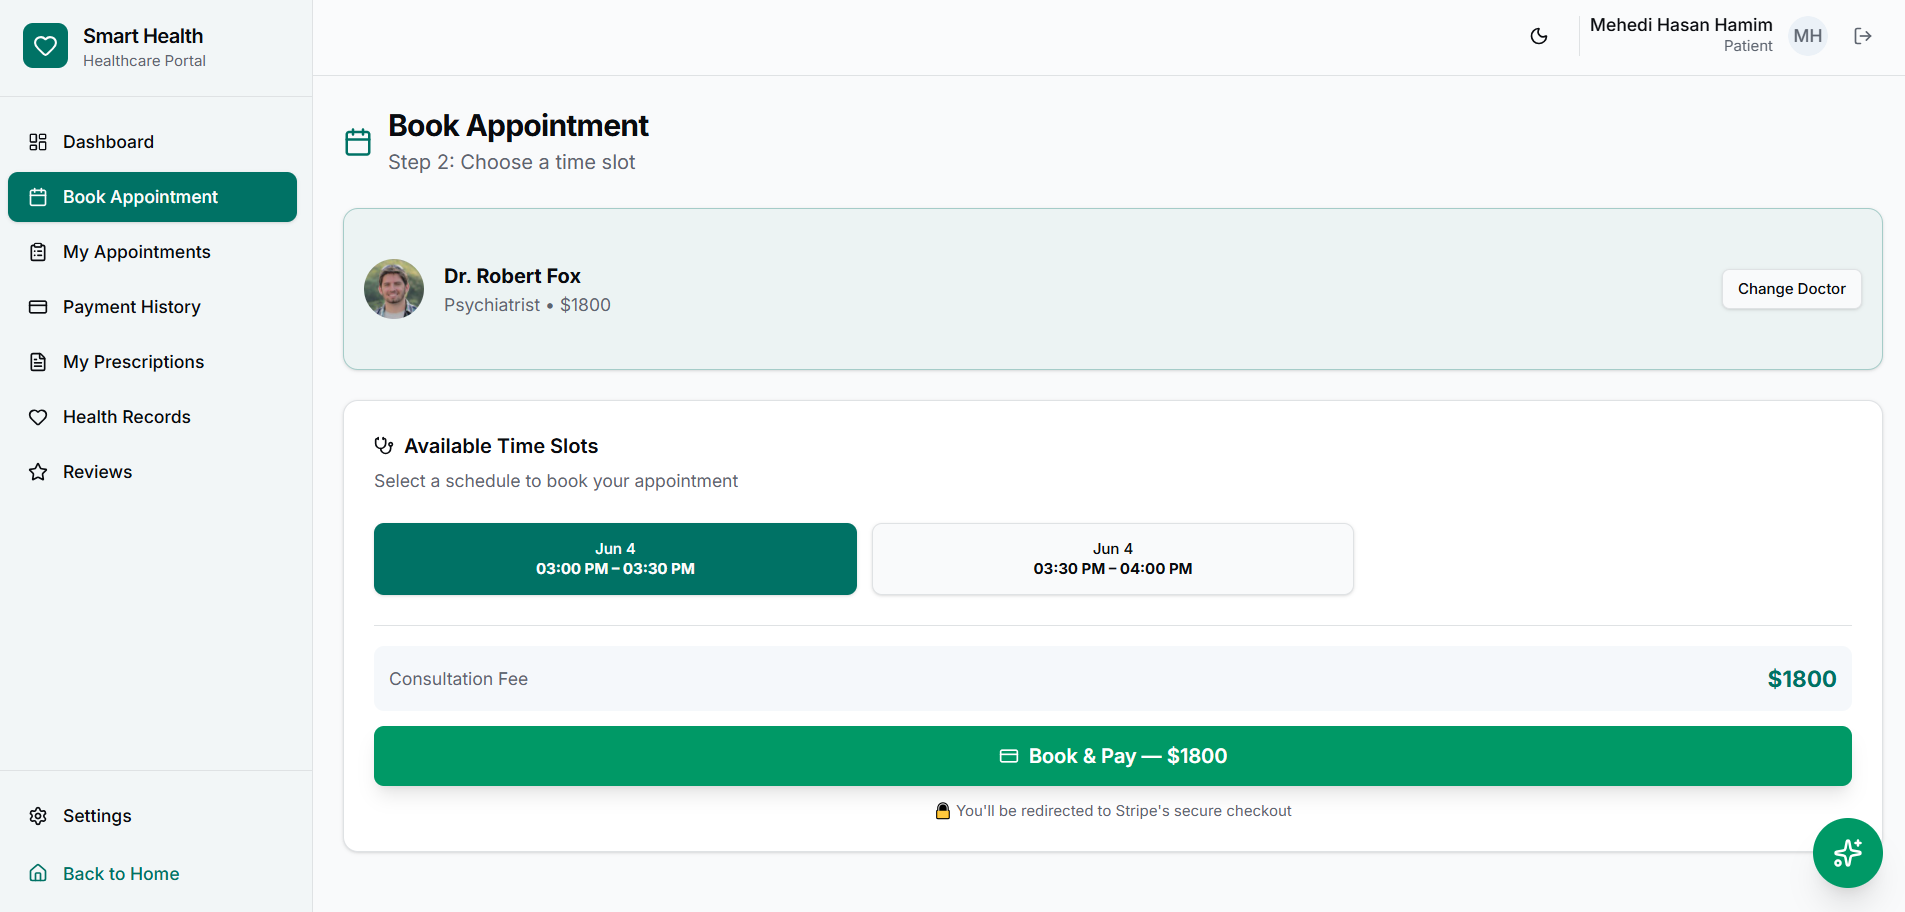
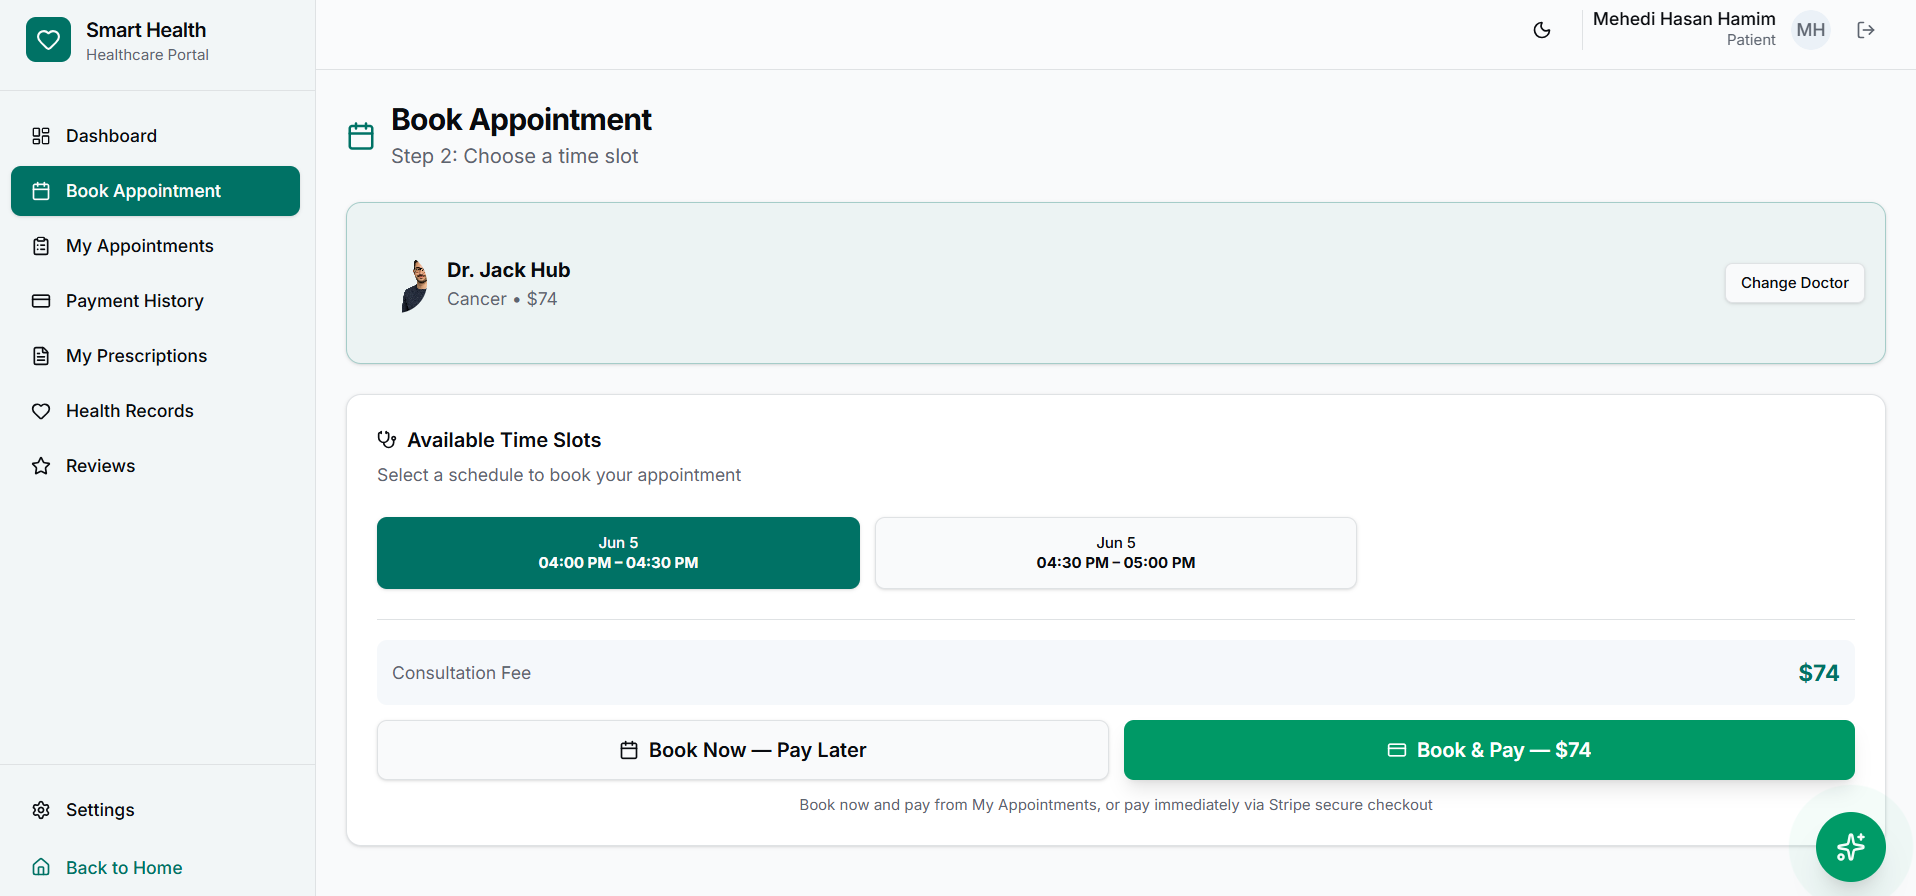
updating readme file

diff --git a/README.md b/README.md
@@ -36,7 +36,7 @@
   <img src="https://img.shields.io/badge/Netlify-00C7B7?style=for-the-badge&logo=netlify&logoColor=white" alt="Netlify" />
   <img src="https://img.shields.io/badge/ESLint-4B32C3?style=for-the-badge&logo=eslint&logoColor=white" alt="ESLint" />
   <img src="https://img.shields.io/badge/Prettier-F7B93E?style=for-the-badge&logo=prettier&logoColor=black" alt="Prettier" />
-  
+
 
 </p>
 
@@ -62,61 +62,233 @@ Healthcare booking and practice management often live in disconnected tools — 
 
 ### Public experience
 
-- **Marketing landing** — live stats, featured doctors, testimonials (`/`)
-- **Doctor directory** — search, filters, pagination (`/consultation`)
-- **Doctor profiles** — public profile with available schedules (`/doctor/:id`)
-- **Auth** — patient registration with optional profile photo upload (`/login`, `/register`)
+<p align="center">
+  <img src="./docs/screenshots/landingPage.PNG" width="32%" />
+  <img src="./docs/screenshots/landingPageLogged.PNG" width="32%" />
+  <img src="./docs/screenshots/landingPageDark.PNG" width="32%" />
+</p>
+
+**Marketing landing (`/`)**  
+Hero section, live platform statistics, featured doctors carousel, patient testimonials, and calls-to-action for consultation and registration. Logged-in patients can see their next upcoming appointment. **HealthAI** chat widget is available on the landing page for guided help.
+
+<p align="center">
+  <img src="./docs/screenshots/doctorDetails.PNG" width="48%"  />
+  <img src="./docs/screenshots/consultation.PNG" width="48%"  />
+</p>
+
+**Doctor directory (`/consultation`)**  
+Browse all active doctors with search, designation/specialization filters, and pagination. Responsive grid layout with doctor cards showing photo, experience, average rating, and consultation fee. Filter sidebar for refining results on larger screens.
+
+**Public doctor profiles (`/doctor/:id`)**  
+Detailed doctor page with profile photo, designation, experience, ratings, and available time slots pulled from real schedule data. Helps patients evaluate a doctor before signing in to book.
+
+<p align="center">
+  <img src="./docs/screenshots/login.PNG" width="48%"  />
+  <img src="./docs/screenshots/register.PNG" width="48%"  />
+</p>
+
+**Authentication**
+
+- **Login** (`/login`) — email/password with JWT session (HttpOnly cookies + optional Bearer token)
+- **Register** (`/register`) — patient onboarding with optional **Cloudinary** profile photo upload
+- Role-based redirect after login: Patient, Doctor, or Admin dashboard
+
+---
 
 ### Patient dashboard
 
-- **Book appointment** — select doctor → time slot → Stripe Checkout
-- **My appointments** — view and manage bookings
-- **Payment history** — paid/unpaid status with Stripe verification
-- **Prescriptions & health records** — view issued prescriptions
-- **Reviews** — rate and review doctors
+<p align="center">
+  <img src="./docs/screenshots/booking.PNG" width="32%" />
+  <img src="./docs/screenshots/myappointment.PNG" width="32%" />
+  <img src="./docs/screenshots/prescriptionDetails.PNG" width="32%" />
+</p>
+<p align="center">
+  <img src="./docs/screenshots/stripe.PNG" width="32%"  />
+  <img src="./docs/screenshots/reviewWriting.PNG" width="32%" />
+  <img src="./docs/screenshots/myReviews.PNG" width="32%" />
+</p>
+
+**Overview (`/dashboard/patient`)**  
+Personal dashboard with upcoming appointments, quick stats, and navigation to booking, payments, prescriptions, and reviews.
+
+**Book appointment (`/dashboard/patient/book-appointment`)**  
+Two-step booking flow:
+
+1. Choose a doctor from the directory-style grid
+2. Pick an available future time slot
+
+Two payment options at checkout:
+
+- **Book Now — Pay Later** — reserves the slot immediately; payment can be completed later from My Appointments
+- **Book & Pay** — books the slot and redirects to **Stripe Checkout** for immediate payment
+
+Slot booking uses atomic database transactions to prevent double-booking and respects doctor day cancellations.
+
+**My appointments (`/dashboard/patient/my-appointments`)**  
+Paginated list of all appointments with doctor name, schedule, status (`SCHEDULED`, `INPROGRESS`, `COMPLETED`, `CANCEL`), and payment status (`UNPAID`, `PAID`, `REFUNDED`). Actions include:
+
+- **Cancel** — for scheduled visits; **automatic Stripe refund** if already paid
+- **Pay Now** — Stripe Checkout for unpaid, non-cancelled appointments
+- **Leave a review** — after completed visits (rating + comment)
+
+**Payment history (`/dashboard/patient/payment-history`)**  
+Track every payment linked to appointments, with status filters and **Pay Now** for outstanding balances.
+
+**Payment success / cancel (`/dashboard/patient/payment-success`, `payment-cancel`)**  
+Post-checkout pages with session verification (webhook fallback) and clear next steps.
+
+**My prescriptions (`/dashboard/patient/my-prescriptions`)**  
+View prescription history with doctor details, follow-up dates, and **View Full** dialog showing complete instructions, appointment context, and metadata.
+
+**Health records (`/dashboard/patient/health-records`)**  
+Card-based view of the same prescription data optimized for reading full medical notes at a glance.
+
+**Reviews (`/dashboard/patient/reviews`)**  
+Submit and manage doctor reviews tied to completed appointments.
+
+**Settings (`/dashboard/settings`)**  
+Profile management and logout (shared across roles).
+
+---
 
 ### Doctor dashboard
 
-- **Appointments** — manage patient visits and status
-- **My schedules** — weekly availability, slot generation, day cancellations
-- **Prescriptions** — create and manage patient prescriptions
+<p align="center">
+  <img src="./docs/screenshots/doctorAppointment.PNG" width="48%" />
+  <img src="./docs/screenshots/doctorManualSchedule.PNG" width="48%" /><img src="./docs/screenshots/doctorSchedule.PNG" width="32%" />
+  <img src="./docs/screenshots/doctorScheduleCalender.PNG" width="32%" />
+  <img src="./docs/screenshots/prescriptionCreation.PNG" width="32%" />
+  </p>
+
+**Overview (`/dashboard/doctor`)**  
+Snapshot of today’s workload: appointment counts, prescriptions, and ratings.
+
+**Appointments (`/dashboard/doctor/appointments`)**  
+Manage all patient visits for the logged-in doctor. Update appointment status through the lifecycle (`SCHEDULED` → `INPROGRESS` → `COMPLETED` or `CANCEL`). **Write Prescription** dialog for completed, paid visits — one prescription per appointment.
+
+**My schedules (`/dashboard/doctor/my-schedules`)**  
+Advanced scheduling toolkit:
+
+- **Weekly availability template** — recurring hours per day of week
+- **Generate slots** — materialize bookable `Schedule` rows from the template
+- **Day cancellation** — block a date and auto-cancel existing scheduled appointments on that day (with refunds when paid)
+- View booked vs available slots on a calendar-oriented UI
+
+**Prescriptions (`/dashboard/doctor/prescriptions`)**  
+List all prescriptions issued by the doctor. **View** opens full detail (patient, instructions, follow-up, appointment date). **Edit** allows updating instructions and follow-up date after issuance.
+
+---
 
 ### Admin dashboard
 
-- **Doctors, patients, admins** — full user management with soft delete
-- **Appointments & schedules** — practice-wide scheduling
-- **Payments** — overview of Stripe transactions
-- **Dashboard metadata** — role-specific stats and KPIs
+<p align="center">
+  <img src="./docs/screenshots/doctorCreation.PNG" width="48%" />
+  <img src="./docs/screenshots/paymentManagement.PNG" width=48%" />
+  <img src="./docs/screenshots/paymentHistory.PNG" width="32%" />
+  <img src="./docs/screenshots/scheduleCreation.PNG" width="32%" />
+  <img src="./docs/screenshots/appointmentManagement.PNG" width="32%" />
+</p>
+
+**Overview (`/dashboard/admin`)**  
+Practice-wide KPIs: users, appointments, revenue-oriented payment stats, and activity summaries.
+
+**Doctors management (`/dashboard/admin/doctors-management`)**  
+Create, search, edit, and soft-delete doctors. Assign designation, fees, experience, and profile photos.
+
+**Patients management (`/dashboard/admin/patients-management`)**  
+Search, edit contact details, and soft-delete patient records.
+
+**Admins management (`/dashboard/admin/admins-management`)**  
+Manage administrative staff accounts (bootstrap first admin via `ALLOW_BOOTSTRAP`).
+
+**Appointments management (`/dashboard/admin/appointments-management`)**  
+Full visibility into every appointment with status filters and ability to change status on behalf of the practice (including cancellation with refund when applicable).
+
+**Schedules management (`/dashboard/admin/schedules-management`)**  
+Create and manage global schedule windows and link them to doctors.
+
+**Payments (`/dashboard/admin/payments`)**  
+Revenue overview, paid vs unpaid counts, and transaction listing across the platform.
+
+**Specialities management (`/dashboard/admin/specialities-management`)**  
+UI for managing specialization categories (demo/mock data layer).
+
+---
 
 ### HealthAI assistant
+<p align="center">
+ 
+  <img src="./docs/screenshots/Ai1.PNG" width="32%" />
+  <img src="./docs/screenshots/Ai2.PNG" width="32%" />
+  <img src="./docs/screenshots/Ai3.PNG" width="32%" />
+</p>
 
-- Floating chat on landing and dashboard pages
-- General health Q&A with rate limiting
-- Role-aware deep links into the app
-- Optional appointment booking via chat (including admin booking on behalf of patients)
+**Floating chat widget** on the public landing page and inside the authenticated dashboard shell.
+
+**Capabilities:**
+
+- General health information and navigation help (not a replacement for professional medical advice)
+- **Role-aware responses** — suggests correct dashboard links for Patient, Doctor, or Admin
+- **Safe internal links only** — allowlisted routes to prevent open redirects
+- **Appointment booking via chat** — patients can book; admins can book on behalf of a patient (email required)
+- **Rate limiting** on the API to reduce abuse
+- Powered by **Z.AI (GLM-4.5)** through an OpenAI-compatible API
+
+---
+
+### Payments & refunds
+
+**Stripe integration end-to-end:**
+
+- Checkout Sessions with appointment metadata
+- Webhook handler for `checkout.session.completed`
+- Success-page **verify** endpoint as a reliable fallback
+- Payment records stored with gateway JSON and Stripe payment intent IDs
+
+**Payment statuses:** `UNPAID` (default at booking) → `PAID` (after Stripe) → `REFUNDED` (after cancellation of a paid visit)
+
+**Refund policy (automated):** When a paid appointment is cancelled by patient, doctor, admin, or bulk doctor day-cancel, the system issues a **Stripe refund** and updates both `Payment` and `Appointment` to `REFUNDED`.
+
+---
+
+### Prescriptions & health records
+
+- Doctors create prescriptions only for **completed + paid** appointments
+- One prescription per appointment (unique constraint)
+- Patients see **full prescription detail** in a modal (instructions, doctor, visit date, follow-up)
+- Doctors can **view and edit** prescriptions after creation
+- REST API: `GET /api/prescription`, `GET/PATCH /api/prescription/:id`, `POST /api/prescription`
+
+---
 
 ### Platform capabilities
 
-- **Authentication** — JWT access + refresh tokens, bcrypt passwords, HttpOnly cookies + Bearer header, role-based route guards
-- **Payments** — Stripe Checkout sessions, success/cancel flows, webhooks, payment verification
-- **Media** — Cloudinary uploads for profile photos
-- **Architecture** — TanStack Start API routes → domain services → Prisma → PostgreSQL
-- **API playground** — interactive endpoint tester at `/dev` (development)
+| Area                | Details                                                                                                                |
+| ------------------- | ---------------------------------------------------------------------------------------------------------------------- |
+| **Authentication**  | Custom JWT (access + refresh), bcrypt password hashing, HttpOnly cookies, role middleware on every protected API route |
+| **Authorization**   | Three roles — `PATIENT`, `DOCTOR`, `ADMIN` — with route-level and service-level checks                                 |
+| **Data layer**      | Prisma 7 + PostgreSQL; soft deletes for users; transactional booking and payments                                      |
+| **Validation**      | Zod schemas on API inputs; react-hook-form + zodResolver on client forms                                               |
+| **UI/UX**           | shadcn/ui components, Tailwind CSS 4, Framer Motion animations, Sonner toasts, dark mode support                       |
+| **File uploads**    | Cloudinary for doctor/patient profile images                                                                           |
+| **API design**      | REST-style handlers under `src/routes/api/`; consistent `{ success, message, data, meta }` responses                   |
+| **Developer tools** | Interactive API playground at `/dev` for testing endpoints during development                                          |
+| **Deployment**      | Netlify build pipeline with Prisma migrate + Vite production bundle                                                    |
 
 ---
 
 ## Tech stack
 
-| Category | Technologies |
-|----------|--------------|
+| Category     | Technologies                                                                                        |
+| ------------ | --------------------------------------------------------------------------------------------------- |
 | **Frontend** | React 19, TanStack Router / Start / Query, Tailwind CSS 4, shadcn/ui, Lucide, Framer Motion, Sonner |
-| **Backend** | TanStack Start server handlers, TypeScript domain services, Zod, react-hook-form, date-fns |
-| **Database** | PostgreSQL, Prisma 7 (`@prisma/adapter-pg`) |
-| **Auth** | Custom JWT (jsonwebtoken) + bcryptjs password hashing |
-| **Payments** | Stripe Checkout + webhooks |
-| **Media** | Cloudinary |
-| **AI** | Z.AI (GLM-4.5) via OpenAI-compatible HTTP API |
-| **Deploy** | Netlify (`@netlify/vite-plugin-tanstack-start`) |
+| **Backend**  | TanStack Start server handlers, TypeScript domain services, Zod, react-hook-form, date-fns          |
+| **Database** | PostgreSQL, Prisma 7 (`@prisma/adapter-pg`)                                                         |
+| **Auth**     | Custom JWT (jsonwebtoken) + bcryptjs password hashing                                               |
+| **Payments** | Stripe Checkout + webhooks                                                                          |
+| **Media**    | Cloudinary                                                                                          |
+| **AI**       | Z.AI (GLM-4.5) via OpenAI-compatible HTTP API                                                       |
+| **Deploy**   | Netlify (`@netlify/vite-plugin-tanstack-start`)                                                     |
 
 > **Note:** Auth uses custom JWT; the assistant uses Z.AI directly.
 
@@ -198,7 +370,7 @@ smarthealthcare/
 ### Installation
 
 ```bash
-git clone <your-repo-url>
+git clone https://github.com/mohamim360/SmartHealthCare-Hospital-Management-System.git
 cd smarthealthcare
 npm install
 ```
@@ -208,7 +380,7 @@ npm install
 Copy the template and fill in your values:
 
 ```bash
-cp .env.example .env.local
+cp .env.example
 ```
 
 See [`.env.example`](.env.example) for every variable and what it does.
@@ -235,40 +407,40 @@ For the first admin account, set `ALLOW_BOOTSTRAP=true` temporarily and use `POS
 
 ## Scripts
 
-| Command | Description |
-|---------|-------------|
-| `npm run dev` | Start dev server (port 3000) |
-| `npm run build` | Production build |
-| `npm run preview` | Preview production build |
-| `npm run test` | Run Vitest |
-| `npm run lint` | ESLint |
-| `npm run format` | Prettier |
-| `npm run check` | Format + ESLint fix |
-| `npm run db:generate` | Generate Prisma client |
-| `npm run db:push` | Push schema to DB (dev) |
-| `npm run db:migrate` | Run migrations (dev) |
-| `npm run db:studio` | Open Prisma Studio |
-| `npm run db:seed` | Run default seed |
-| `npm run db:seed:doctors` | Seed demo doctors |
+| Command                   | Description                  |
+| ------------------------- | ---------------------------- |
+| `npm run dev`             | Start dev server (port 3000) |
+| `npm run build`           | Production build             |
+| `npm run preview`         | Preview production build     |
+| `npm run test`            | Run Vitest                   |
+| `npm run lint`            | ESLint                       |
+| `npm run format`          | Prettier                     |
+| `npm run check`           | Format + ESLint fix          |
+| `npm run db:generate`     | Generate Prisma client       |
+| `npm run db:push`         | Push schema to DB (dev)      |
+| `npm run db:migrate`      | Run migrations (dev)         |
+| `npm run db:studio`       | Open Prisma Studio           |
+| `npm run db:seed`         | Run default seed             |
+| `npm run db:seed:doctors` | Seed demo doctors            |
 
 ---
 
 ## API overview
 
-| Area | Endpoints |
-|------|-----------|
-| **Auth** | `/api/auth/login`, `logout`, `me` |
-| **Users** | `/api/user/create-patient`, `create-doctor`, `create-admin` |
-| **Doctors** | `/api/doctor/`, `/:id`, `profile`, `specializations` |
-| **Patients** | `/api/patient/`, `/:id`, `profile` |
-| **Schedules** | `/api/schedule/`, `/api/doctor-schedule/`, `/api/weekly-availability/` |
-| **Appointments** | `/api/appointment/` |
-| **Payments** | `/api/payment/checkout`, `verify`, `webhook` |
-| **Prescriptions** | `/api/prescription/` |
-| **Reviews** | `/api/review/` |
-| **Public** | `/api/public/landing-data` |
-| **AI** | `/api/ai/chat` |
-| **Health** | `/api/health` |
+| Area              | Endpoints                                                              |
+| ----------------- | ---------------------------------------------------------------------- |
+| **Auth**          | `/api/auth/login`, `logout`, `me`                                      |
+| **Users**         | `/api/user/create-patient`, `create-doctor`, `create-admin`            |
+| **Doctors**       | `/api/doctor/`, `/:id`, `profile`, `specializations`                   |
+| **Patients**      | `/api/patient/`, `/:id`, `profile`                                     |
+| **Schedules**     | `/api/schedule/`, `/api/doctor-schedule/`, `/api/weekly-availability/` |
+| **Appointments**  | `/api/appointment/`                                                    |
+| **Payments**      | `/api/payment/checkout`, `verify`, `webhook`                           |
+| **Prescriptions** | `/api/prescription/`                                                   |
+| **Reviews**       | `/api/review/`                                                         |
+| **Public**        | `/api/public/landing-data`                                             |
+| **AI**            | `/api/ai/chat`                                                         |
+| **Health**        | `/api/health`                                                          |
 
 Explore endpoints interactively at **`/dev`** during local development.
 
@@ -296,13 +468,5 @@ Full schema: [`prisma/schema.prisma`](prisma/schema.prisma).
 
 ---
 
-## Known limitations
-
-- `/forgot-password` is a stub (not implemented)
-- Admin **Specialities** UI uses mock data (not DB-backed)
-- `videoCallingId` is stored on appointments but there is no video-call UI yet
-- Vitest is configured; test files are not yet added
-
----
 
 Built with [TanStack Start](https://tanstack.com/start).
